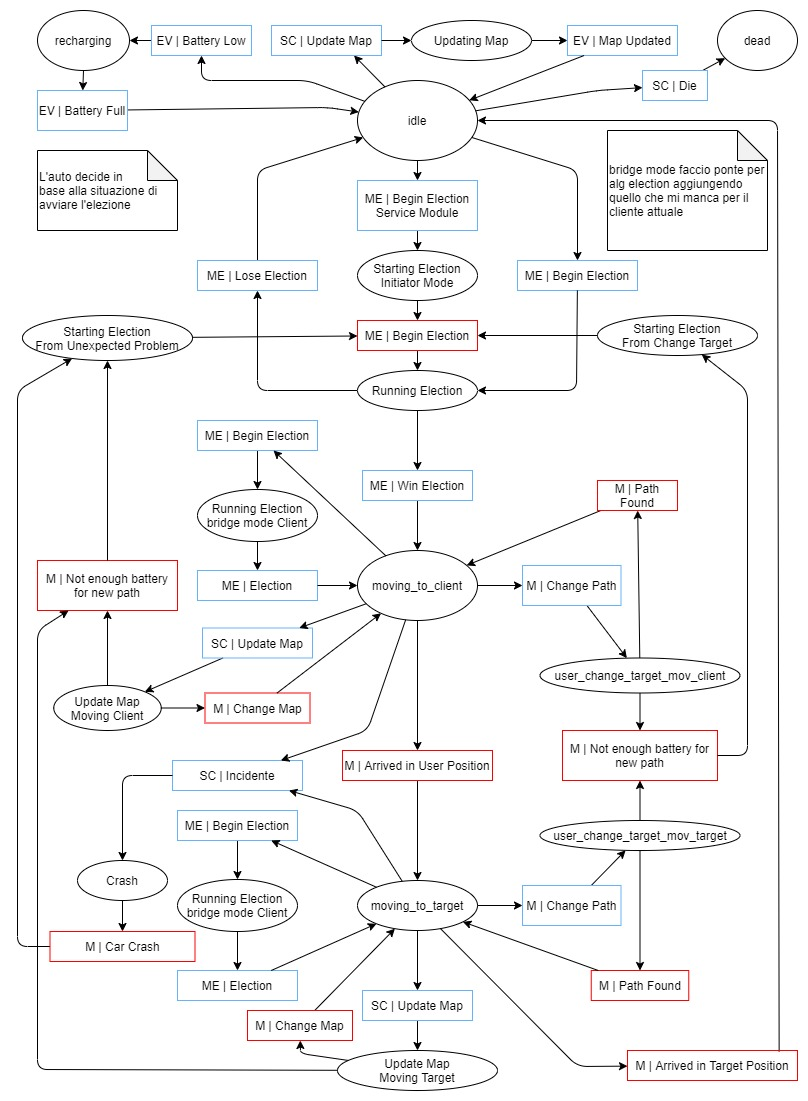
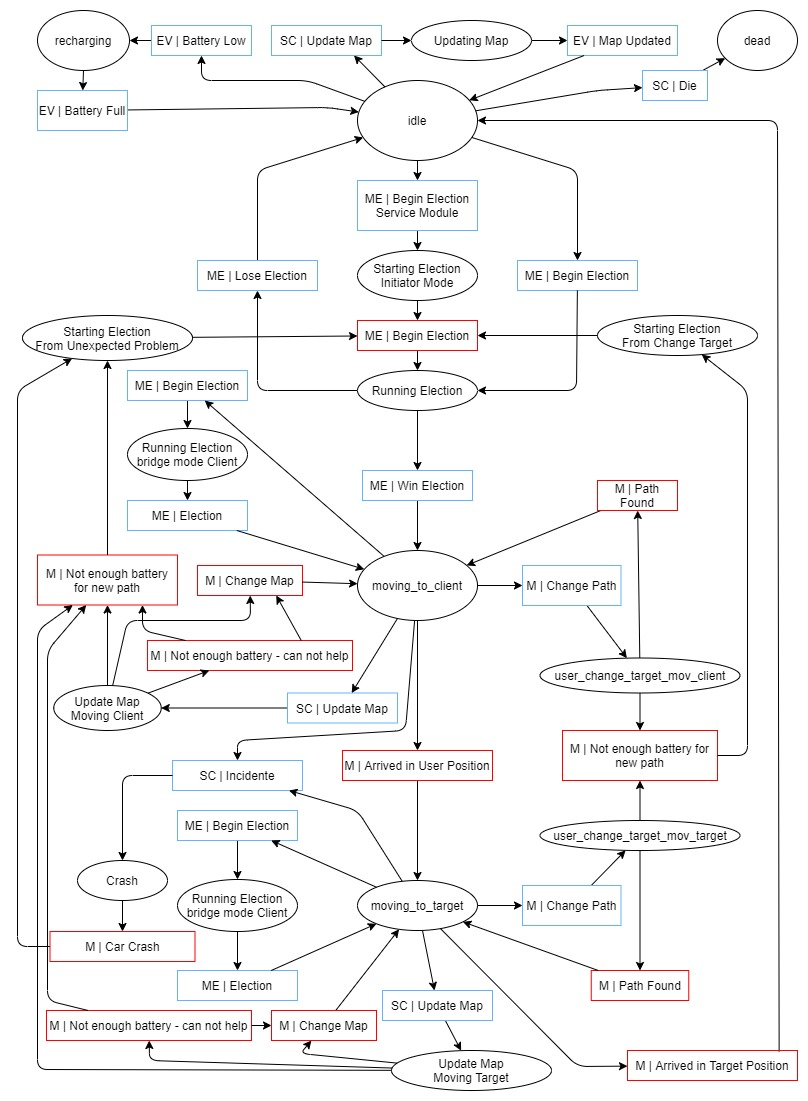
Relazione | aggiorno immagini

diff --git a/relazione/progetto.tex b/relazione/progetto.tex
@@ -152,6 +152,17 @@ L'algoritmo segue i seguenti passi:
 	\item Tutti i nodi ricevono la notifica del leader e in base al risultato compiono le azioni più opportune. In ogni caso escono dallo stato di elezione eliminando tutte le informazioni calcolate.
 \end{enumerate}
 
+Un esempio dei pacchetti scambiati durate l'algoritmo è presente all'immagine \ref{fig:messaggi_macchina_elezione}. La parte in basso a sinistra mostra lo spanning tree creato.
+
+\begin{figure}[htbp]
+	\centering
+	\includegraphics[width=15cm]{messaggi_macchina_elezione.jpg}
+	\caption{Rappresentazione dei messaggi scambiati durante l'elezione.}
+	\label{fig:messaggi_macchina_elezione}
+\end{figure}
+
+\newpage
+
 \subsection{Possibili errori durante l'elezione}
 
 I problemi durante l'esecuzione dell'algoritmo nel sistema sono i seguenti:
@@ -201,6 +212,7 @@ All'appendice \ref{messaggi_scambiati_appendix}, sono presenti i diagrammi di se
 	\item Ricarica della macchina, rimozione della macchina dal sistema e aggiornamento della mappa  \ref{fig:messaggi_macchina_batteria_morte_mappaIdle}. In queste operazioni si considera che la macchina sia nello stato 'idle'.
 	\item Aggiornamento della mappa della città mentre il taxi si sta muovendo verso il cliente \ref{fig:messaggi_macchina_aggiornamento_mappa_to_client}.
 	\item Aggiornamento della mappa della città mentre il taxi sta trasportando il cliente a destinazione \ref{fig:messaggi_macchina_aggiornamento_mappa_to_target}.
+	\item Aggiornamento della mappa della città mentre il taxi è occupato con un utente e ne ha altri nella coda \ref{fig:messaggi_macchina_aggiornamento_mappa_clienti}.
 \end{itemize}
 
 

diff --git a/relazione/analisi.tex b/relazione/analisi.tex
@@ -41,7 +41,7 @@ Più nello specifico, ogni requisito è caratterizzato da tre componenti: dati i
 			\item Input: <id utente, id taxi designato, posizione B>
 			\item Output: Se possibile cambio dest. -> avviso possibilità spostamento \\
 						  altrimenti -> avviso impossibilità spostamento con 'id taxi designato'
-			\item Effetto: il Taxi nel quale si trova l'utente valuta se è c'è la possibilità di soddisfarne la richiesta di trasporto al nuovo target = 'posizione B'. Se è nelle facoltà del taxi trasporterà il cliente alla nuova destinazione, altrimenti prenderà in carico la sua richiesta cercando un altro veicolo che possa soddisfare i nuovi bisogni del cliente.
+			\item Effetto: il Taxi al quale è assegnato l'utente valuta se è c'è la possibilità di soddisfarne la richiesta di trasporto al nuovo target = 'posizione B'. Se è nelle facoltà del taxi trasporterà il cliente alla nuova destinazione, altrimenti prenderà in carico la sua richiesta cercando un altro veicolo che possa soddisfare i nuovi bisogni del cliente.
 		\end{itemize}
 	
 	Qui di seguito verranno elencati alcuni requisiti non direttamente interessanti per l'utente ma che sono importanti da definire per la progettazione in quanto rischiano di compromettere il funzionamento del servizio stesso.

diff --git a/relazione/appendici.tex b/relazione/appendici.tex
@@ -70,3 +70,11 @@
 	\caption{Messaggi per l'aggiornamento della mappa della città mentre il taxi trasporta un utente.}
 	\label{fig:messaggi_macchina_aggiornamento_mappa_to_target}
 \end{figure}
+
+\begin{figure}[htbp]
+\centering
+\includegraphics[width=15cm]{messaggi_macchina_aggiornamento_mappa_clienti.jpg}
+\caption{Messaggi per l'aggiornamento della mappa della città mentre il taxi ha in coda più utenti.}
+\label{fig:messaggi_macchina_aggiornamento_mappa_clienti}
+\end{figure}
+
